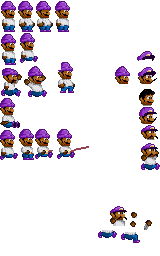
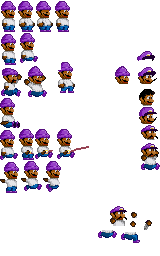
Hector fine tuning and work on run and damage animations

Changed region(s): [[0.0, 0.625, 0.375, 0.7812]]

diff --git a/TODO.md b/TODO.md
@@ -5,3 +5,9 @@
 - sliding animation
 - interfaces/inheritance
 - Death blocks?
+- add some momentum, when we stop inputing a direction he should slide a bit more in the
+  last direction especially if running
+- fall even faster, the jump up is ok but the falling needs to happen quicker,
+  the transition from 0 y velocity to X needs a bump
+- Add low jump and high jump dependent on how long pressed
+- running should have more ramp up time (time to full speed)
